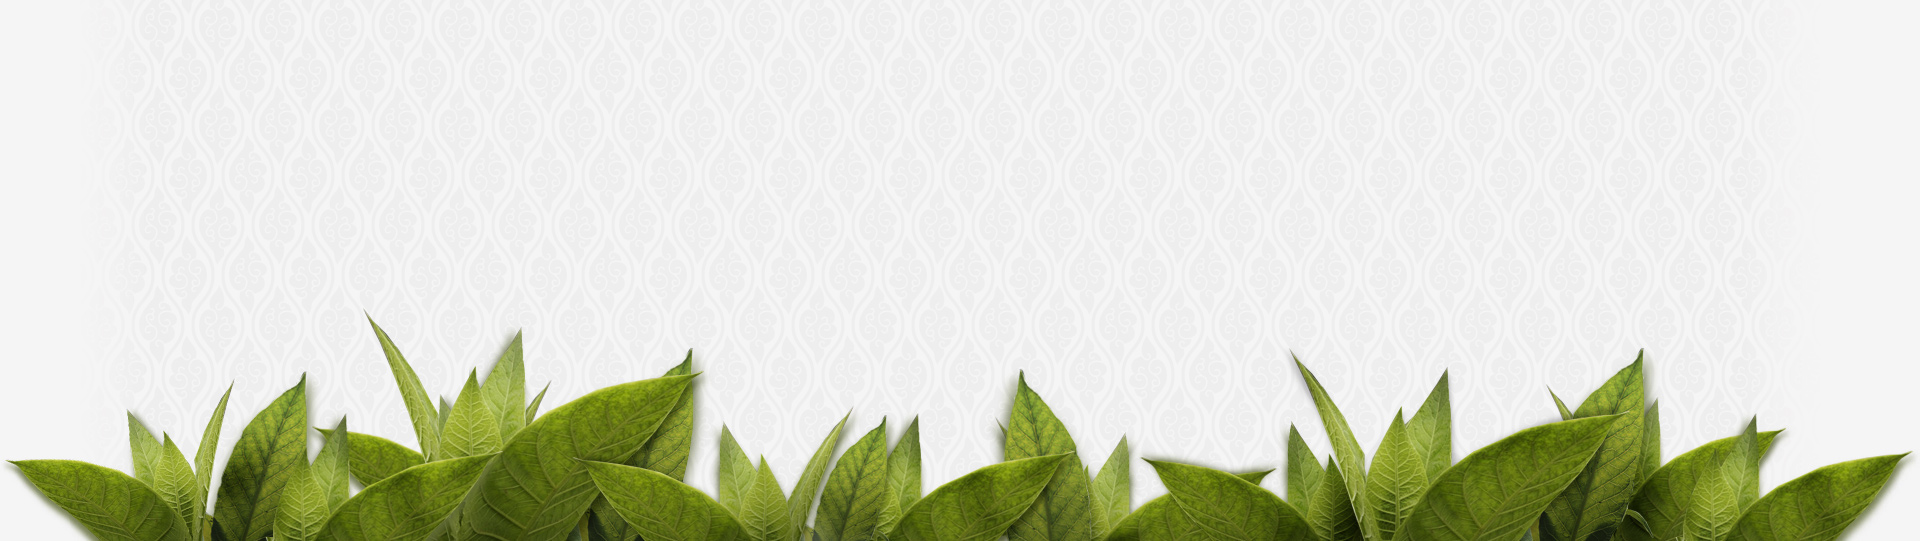
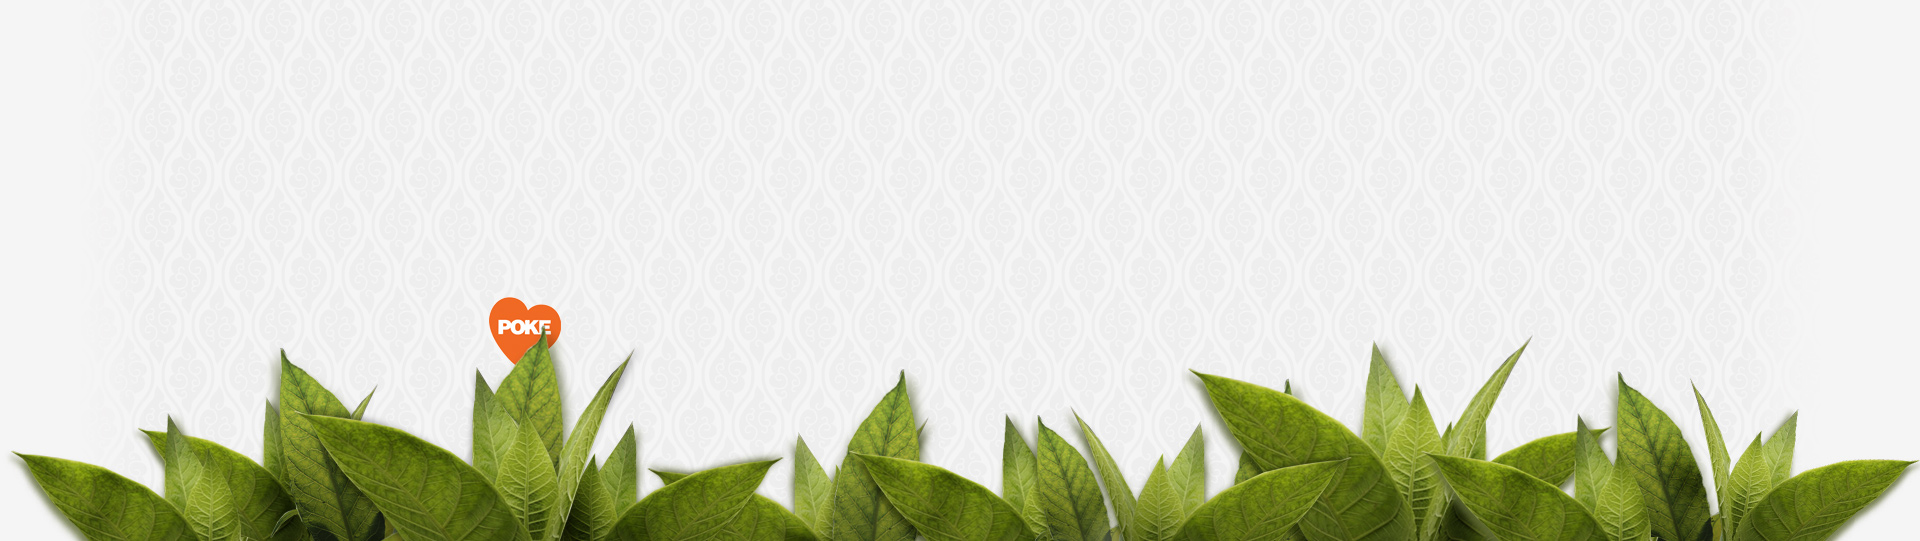
new mainImage with embedded heart

Changed region(s): [[0.0, 0.5323, 1.0, 1.0]]

diff --git a/cigarworld/index.html b/cigarworld/index.html
@@ -29,15 +29,7 @@
 		}
 
 		#containerCW {
-			margin-top: -215px;
-		}
-
-		#cigar {
-			overflow: hidden;
-			position: absolute;
-			right: 0px;
-			top: 0px;
-			z-index: 3;
+			margin-top: -137px;
 		}
 
 		#headerCW {
@@ -49,11 +41,7 @@
 			line-height: 95%;
 			letter-spacing: -2px;
 			position: relative;
-			top: -360px;
-		}
-
-		.heartSK {
-			margin-top: 8px;
+			top: -390px;
 		}
 
 		.bigBorderCW {
@@ -74,20 +62,10 @@
 				margin-top: -190px;
 			}
 
-			#cigar {
-				display: none;
-			}
-
 			#headerCW {
 		 		font-size: 45pt;
 				top: -285px;
 				left: 10px;
-			}
-		  
-			.heartSK {
-				width: 68px;
-				height: 65px;
-				margin-top: 6px;
 			}
 
 			.bigBorderCW {
@@ -106,23 +84,13 @@
 			#containerCW {
 				margin-top: -115px;
 			}
-
-			#cigar {
-				display: none;
-			}
 						
 			#headerCW {
 				font-size: 25pt;
 				top: -135px;
 				left: 10px;
 			}
-			
-			.heartSK {
-				width: 37px;
-				height: 35px;
-				margin-top: 4px;
-			}
-		
+					
 			.bigBorderCW {
 				height: 174px;
 			}	
@@ -135,20 +103,10 @@
 				height: 270px;
 			}
 
-			#cigar {
-				display: none;
-			}
-
 			#headerCW {
 				font-size: 30pt;
 				top: -190px;
 				left: 10px;
-			}
-
-			.heartSK {
-				width: 40px;
-				height: 38px;
-				margin-top: 4px;
 			}
 		
 			.bigBorderCW {
@@ -257,11 +215,7 @@
 <body onload="setTimeout(function() { window.scrollTo(0, 1) }, 100);">
 
 	<header>
-		<div id="mainImage">
-			<div id="cigar">
- 				<img src="images/tobacco.png" alt="tobacco" width="1800" height="541" />
- 			</div>
-		</div>
+		<div id="mainImage"></div>
 	</header>
 
   <div id="container" class="container">
@@ -269,7 +223,6 @@
 		<div id="headerCW">
 				<a href="#">Sharing</a> the passion<br />
 				for good cigars.<br />
-				<img src="../images/pokeHeart_transparent.png" alt="pokeHeart_transparent" class="heartSK" />
 		</div>
 
   <div class="sixteen columns" id="containerCW">
